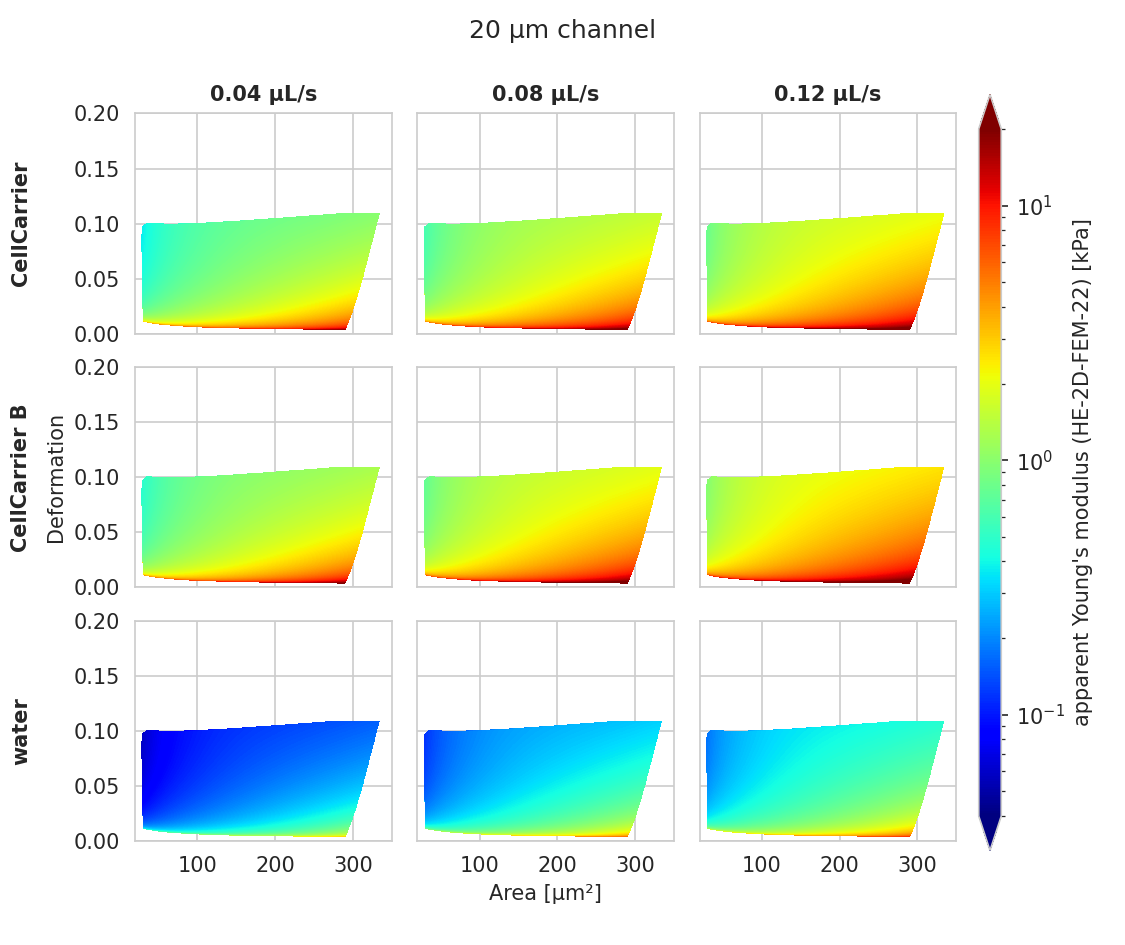
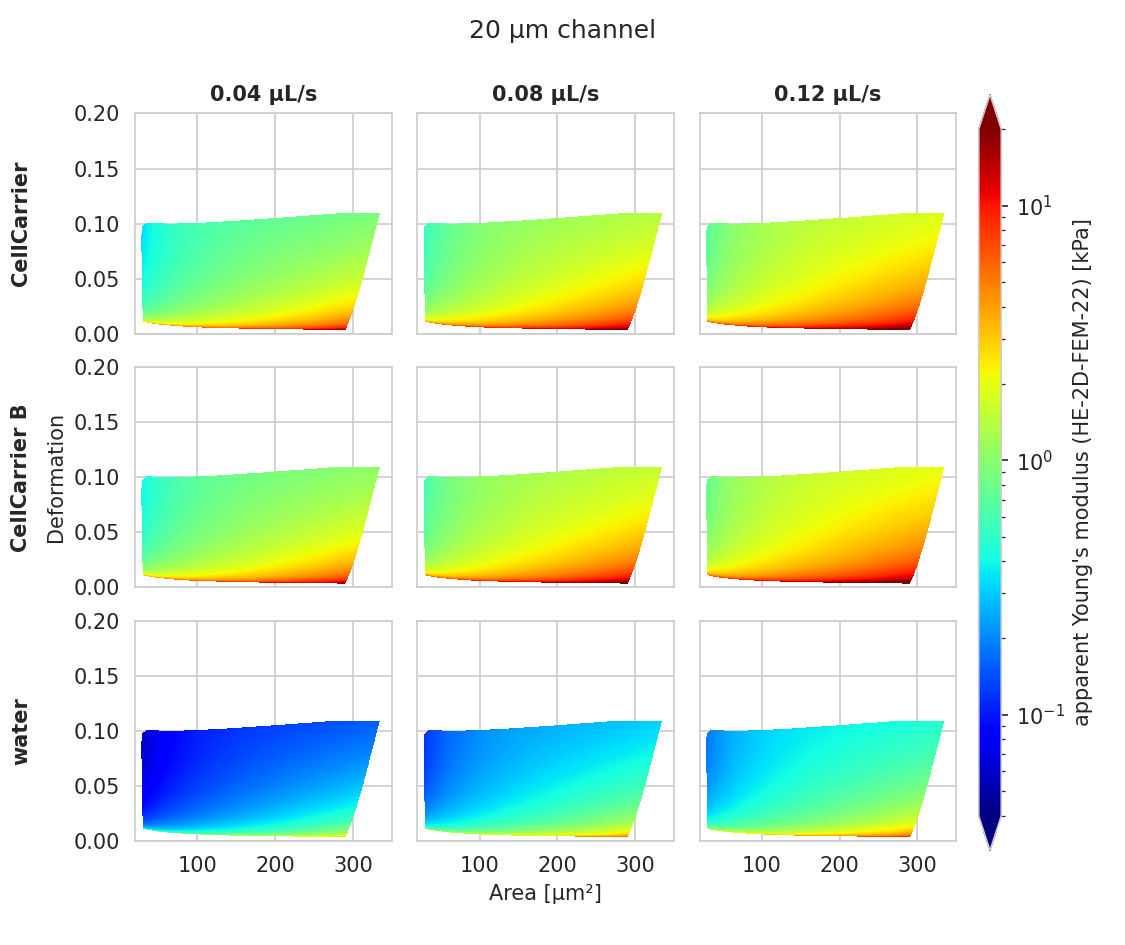
ref: make sure the docs always use the new buyukurganci-2022 model for viscosity (#197)

Changed region(s): [[0.6222, 0.491, 0.84, 0.6138], [0.3733, 0.491, 0.5911, 0.6138], [0.1244, 0.491, 0.3422, 0.6444]]

diff --git a/dclab/features/emodulus/__init__.py b/dclab/features/emodulus/__init__.py
@@ -102,7 +102,7 @@ def extrapolate_emodulus(lut, datax, deform, emod, deform_norm,
 def get_emodulus(deform: float | np.array,
                  area_um: float | np.array | None = None,
                  volume: float | np.array | None = None,
-                 medium: str = "0.49% MC-PBS",
+                 medium: float | str = "0.49% MC-PBS",
                  channel_width: float = 20.0,
                  flow_rate: float = 0.16,
                  px_um: float = 0.34,
@@ -110,7 +110,8 @@ def get_emodulus(deform: float | np.array,
                  lut_data: str | pathlib.Path | np.ndarray = "LE-2D-FEM-19",
                  visc_model: Literal['herold-2017',
                                      'buyukurganci-2022',
-                                     'kestin-1978'] = "herold-2017",
+                                     'kestin-1978',
+                                     None] = "herold-2017",
                  extrapolate: bool = INACCURATE_SPLINE_EXTRAPOLATION,
                  copy: bool = True):
     """Compute apparent Young's modulus using a look-up table
@@ -130,7 +131,7 @@ def get_emodulus(deform: float | np.array,
         The medium to compute the viscosity for. If a string
         is given, the viscosity is computed. If a float is given,
         this value is used as the viscosity in mPa*s (Note that
-        `temperature` must be set to None in this case).
+        `temperature` and `visc_model` must be set to None in this case).
     channel_width: float
         The channel width [µm]
     flow_rate: float
@@ -216,6 +217,9 @@ def get_emodulus(deform: float | np.array,
         if temperature is not None:
             raise ValueError("If `medium` is given in Pa*s, then "
                              + "`temperature` must be set to None!")
+        if visc_model is not None:
+            raise ValueError("If `medium` is given in Pa*s, then "
+                             + "`visc_model` must be set to None!")
     else:
         visco = get_viscosity(medium=medium, channel_width=channel_width,
                               flow_rate=flow_rate, temperature=temperature,

diff --git a/examples/emodulus_dcor.py b/examples/emodulus_dcor.py
@@ -8,6 +8,9 @@ using the area-deformation look-up table implemented in dclab
 (right plot). For comparison, the flow-rate-dependent deformation
 is also shown (left plot).
 
+Note that this example uses the 'buyukurganci-2022' model for
+computing the viscosity, which was introduced in dclab 0.48.0.
+
 `The dataset <https://dcor.mpl.mpg.de/dataset/figshare-12721436-v1>`_
 is loaded directly from `DCOR <https://dcor.mpl.mpg.de>`_ and thus
 an active internet connection is required for this example.
@@ -36,6 +39,7 @@ for loc in ds_loc:
     ds.config["calculation"]["emodulus medium"] = ds.config["setup"]["medium"]
     ds.config["calculation"]["emodulus temperature"] = \
         ds.config["setup"]["temperature"]
+    ds.config["calculation"]["emodulus viscosity model"] = 'buyukurganci-2022'
     # filtering
     ds.config["filtering"]["area_ratio min"] = 1.0
     ds.config["filtering"]["area_ratio max"] = 1.1

diff --git a/dclab/rtdc_dataset/feat_anc_core/ancillary_feature.py b/dclab/rtdc_dataset/feat_anc_core/ancillary_feature.py
@@ -20,9 +20,12 @@ computed, but the prerequisites are evaluated:
 
     In [5]: ds.config["calculation"]["emodulus temperature"] = 23.0
 
-    In [6]: "emodulus" in ds  # nothing is computed
+    In [6]: ds.config["calculation"]["emodulus viscosity model"] = \
+'buyukurganci-2022'
 
-    In [7]: ds["emodulus"] # now data is computed and cached
+    In [7]: "emodulus" in ds  # nothing is computed yet
+
+    In [8]: ds["emodulus"]  # now data are computed and cached
 
 Once the data has been computed, `RTDCBase` caches it in
 the `_ancillaries` property dict together with a hash

diff --git a/docs/sec_av_emodulus/figures_emodulus/plot_emodulus_lut.py b/docs/sec_av_emodulus/figures_emodulus/plot_emodulus_lut.py
@@ -88,6 +88,7 @@ for lut_name in [
                                              flow_rate=flow_rate,
                                              px_um=.34,
                                              temperature=23.0,
+                                             visc_model="buyukurganci-2022",
                                              lut_data=lut_name)
                 ax = axes[jj][ii]
                 ax.set_aspect("auto")

diff --git a/examples/isoelastics_custom.py b/examples/isoelastics_custom.py
@@ -50,6 +50,7 @@ for ii, lut_name in enumerate(["LE-2D-FEM-19", "HE-3D-FEM-22"]):
                                  flow_rate=0.04,
                                  px_um=0,
                                  temperature=None,
+                                 visc_model=None,
                                  lut_data=lut_name)
 
     levels = [0.5, 0.75, 1.0, 1.25, 1.5, 2.0, 3.0, 6.0]

diff --git a/examples/lme4_lmer.py b/examples/lme4_lmer.py
@@ -51,6 +51,7 @@ for ds in datasets:
     ds.config["calculation"]["emodulus lut"] = "LE-2D-FEM-19"
     ds.config["calculation"]["emodulus medium"] = "CellCarrier"
     ds.config["calculation"]["emodulus temperature"] = 23.0
+    ds.config["calculation"]["emodulus viscosity model"] = 'buyukurganci-2022'
 
 # setup lme4 analysis
 rlme4 = lme4.Rlme4(model="lmer")

diff --git a/docs/sec_av_emodulus/index.rst b/docs/sec_av_emodulus/index.rst
@@ -162,9 +162,10 @@ used to generate the LUT are available on figshare :cite:`FigshareWittwer2020`.
     cell area. The values of the Young's moduli in the regions
     shown depend on the channel size, the flow rate, the temperature,
     and the viscosity of the medium :cite:`Mietke2015`.
-    Here, they are computed for a 20 µm wide channel at 23°C with an
-    effective pixel size of 0.34 µm. The data are corrected for pixelation
-    effects according to :cite:`Herold2017`.
+    Here, they are computed for a 20 µm wide channel at 23°C using the
+    viscosity model `buyukurganci-2022` with an effective pixel size of
+    0.34 µm. The data are corrected for pixelation effects according
+    to :cite:`Herold2017`.
 
 
 HE-2D-FEM-22 and HE-3D-FEM-22
@@ -180,18 +181,20 @@ available on figshare :cite:`FigshareWittwer2022`.
     :target: images/emodulus_20um_HE-2D-FEM-22.png
 
     Visualizations of the support and the values of the look-up table (LUT)
-    'HE-2D-FEM-22' :cite:`Wittwer2022` for a 20 µm wide channel at 23°C with an
-    effective pixel size of 0.34 µm. The data are corrected for pixelation
-    effects according to :cite:`Herold2017`.
+    'HE-2D-FEM-22' :cite:`Wittwer2022` for a 20 µm wide channel at 23°C
+    (`buyukurganci-2022` model) with an effective pixel size of 0.34 µm.
+    The data are corrected for pixelation effects according
+    to :cite:`Herold2017`.
 
 
 .. figure:: figures_emodulus/emodulus_20um_HE-3D-FEM-22.png
     :target: images/emodulus_20um_HE-3D-FEM-22.png
 
     Visualizations of the support and the values of the look-up table (LUT)
-    'HE-3D-FEM-22' :cite:`Wittwer2022` for a 20 µm wide channel at 23°C with an
-    effective pixel size of 0.34 µm. The data are corrected for pixelation
-    effects according to :cite:`Herold2017`.
+    'HE-3D-FEM-22' :cite:`Wittwer2022` for a 20 µm wide channel at 23°C
+    (`buyukurganci-2022` model) with an effective pixel size of 0.34 µm.
+    The data are corrected for pixelation effects according
+    to :cite:`Herold2017`.
 
 
 external LUT
@@ -280,6 +283,7 @@ Description of the configuration keywords:
     ds.config["calculation"]["emodulus lut"] = "LE-2D-FEM-19"
     ds.config["calculation"]["emodulus medium"] = ds.config["setup"]["medium"]
     ds.config["calculation"]["emodulus temperature"] = 23.0  # a guess
+    ds.config["calculation"]["emodulus viscosity model"] = 'buyukurganci-2022'
 
     # Plot a few features
     ax1 = plt.subplot(121)
